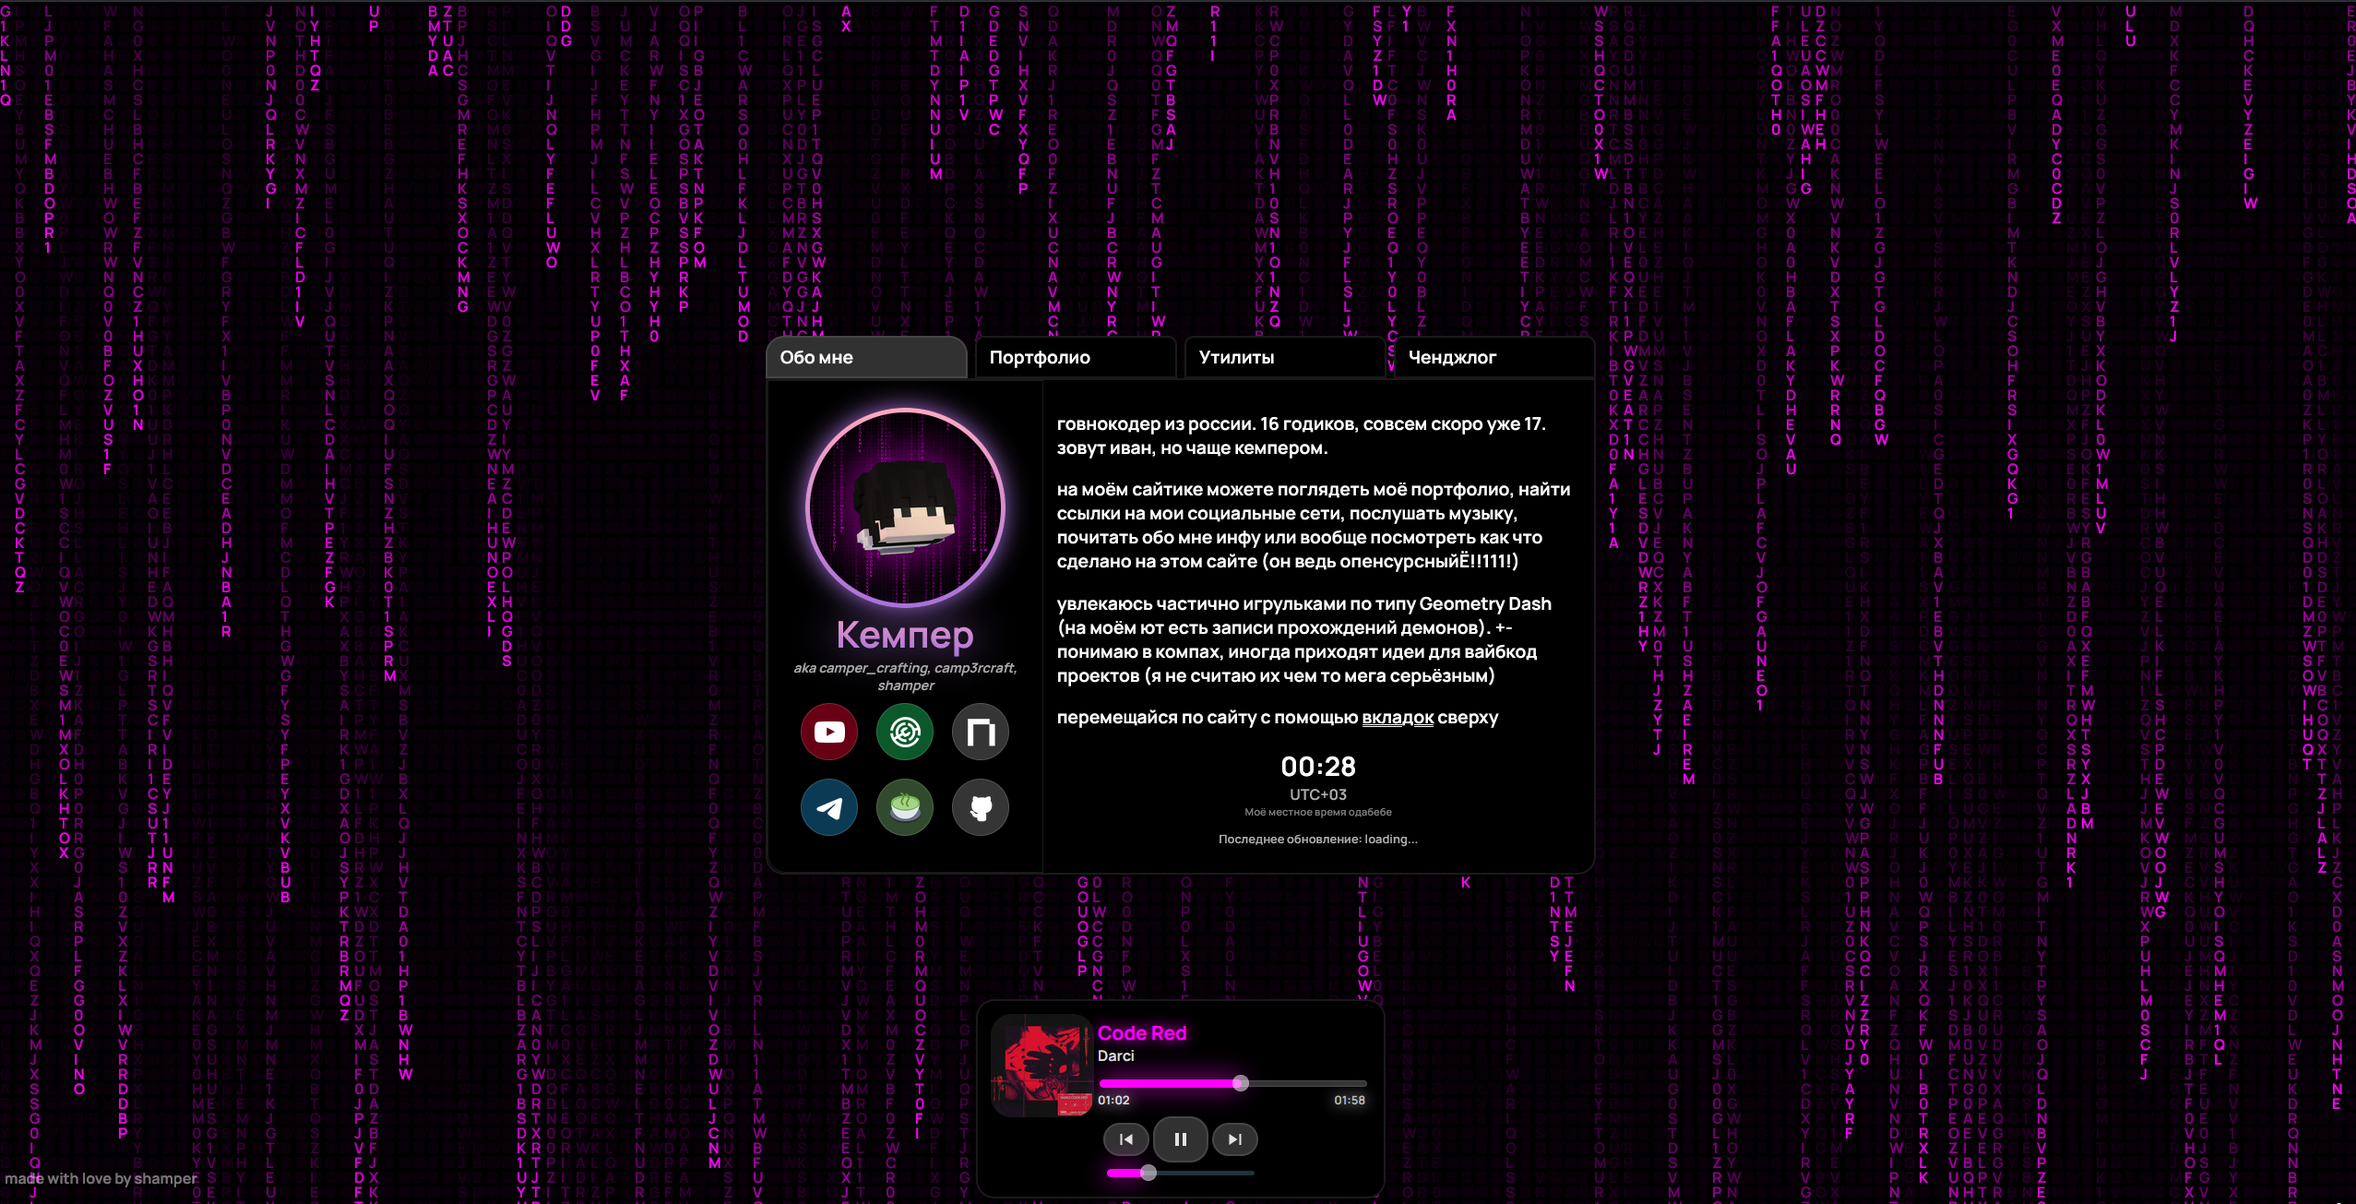
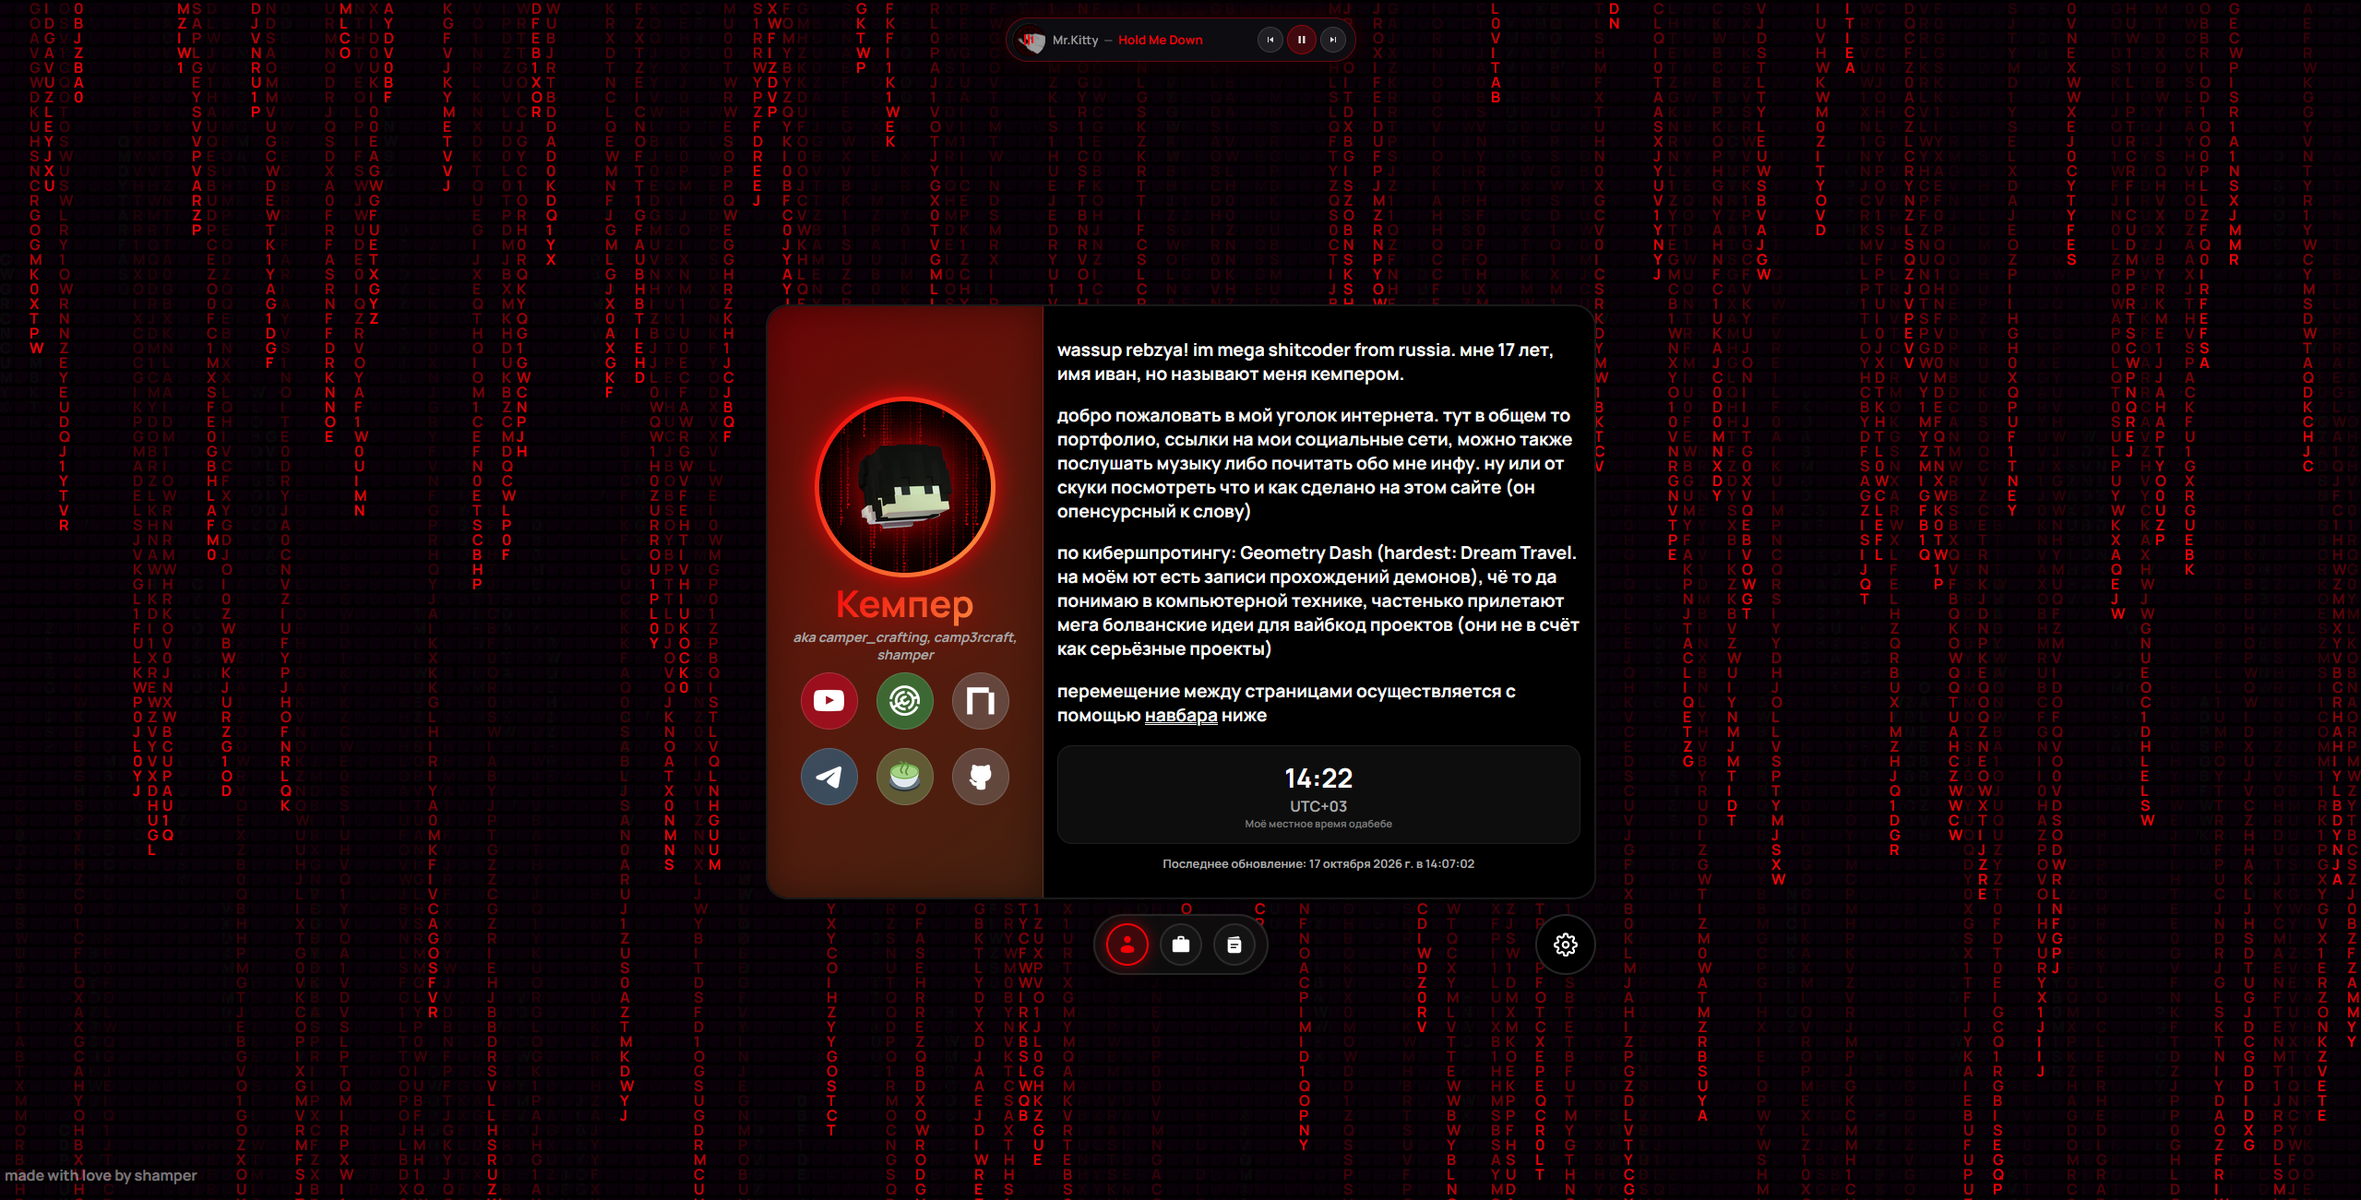
fixed styles and mobile layout

Changed region(s): [[0.0, 0.0, 1.0, 1.0], [0.9898, 0.0, 1.0, 0.1845], [0.1547, 0.5227, 0.1856, 0.6149]]

diff --git a/index.html b/index.html
@@ -2,7 +2,10 @@
     <head>
         <meta charset="UTF-8">
         <meta name="viewport" content="width=device-width, initial-scale=1.0">
-        <link rel="stylesheet" href="style.css">
+        <meta http-equiv="Cache-Control" content="no-cache, no-store, must-revalidate">
+        <meta http-equiv="Pragma" content="no-cache">
+        <meta http-equiv="Expires" content="0">
+        <link rel="stylesheet" href="style.css?v=2.2.2">
         <title>shamper</title>
 
         <link rel="preconnect" href="https://fonts.googleapis.com">
@@ -44,38 +47,40 @@
     <div class="app">
         <div class="window" id="window"></div>
 
-        <nav class="side-navbar navbar" id="navbar" aria-label="Навигация">
-            <div class="nav-capsule">
-                <div class="tab nav-item" data-tab="about">
-                    <svg class="tab-icon nav-icon" viewBox="0 0 24 24" fill="none">
-                        <circle cx="12" cy="6" r="4" fill="currentColor"/>
-                        <path d="M20 17.5C20 19.9853 20 22 12 22C4 22 4 19.9853 4 17.5C4 15.0147 7.58172 13 12 13C16.4183 13 20 15.0147 20 17.5Z" fill="currentColor"/>
-                    </svg>
-                    <span class="nav-tooltip">Обо мне</span>
+        <div class="bottom-bar" id="bottomBar">
+            <nav class="side-navbar navbar" id="navbar" aria-label="Навигация">
+                <div class="nav-capsule">
+                    <div class="tab nav-item" data-tab="about">
+                        <svg class="tab-icon nav-icon" viewBox="0 0 24 24" fill="none">
+                            <circle cx="12" cy="6" r="4" fill="currentColor"/>
+                            <path d="M20 17.5C20 19.9853 20 22 12 22C4 22 4 19.9853 4 17.5C4 15.0147 7.58172 13 12 13C16.4183 13 20 15.0147 20 17.5Z" fill="currentColor"/>
+                        </svg>
+                        <span class="nav-tooltip">Обо мне</span>
+                    </div>
+                    <div class="tab nav-item" data-tab="portfolio">
+                        <svg class="tab-icon nav-icon" viewBox="0 0 24 24" fill="none">
+                            <path d="M20 6h-4V4c0-1.11-.89-2-2-2h-4c-1.11 0-2 .89-2 2v2H4c-1.11 0-1.99.89-1.99 2L2 19c0 1.11.89 2 2 2h16c1.11 0 2-.89 2-2V8c0-1.11-.89-2-2-2zm-6 0h-4V4h4v2z" fill="currentColor"/>
+                        </svg>
+                        <span class="nav-tooltip">Портфолио</span>
+                    </div>
+                    <div class="tab nav-item" data-tab="log">
+                        <svg class="tab-icon nav-icon" viewBox="0 0 24 24" fill="none">
+                            <path fill-rule="evenodd" clip-rule="evenodd" d="M4 5V19C4 20.6569 5.34315 22 7 22H17C18.6569 22 20 20.6569 20 19V9C20 7.34315 18.6569 6 17 6H5C4.44772 6 4 5.55228 4 5ZM7.25 12C7.25 11.5858 7.58579 11.25 8 11.25H16C16.4142 11.25 16.75 11.5858 16.75 12C16.75 12.4142 16.4142 12.75 16 12.75H8C7.58579 12.75 7.25 12.4142 7.25 12ZM7.25 15.5C7.25 15.0858 7.58579 14.75 8 14.75H13.5C13.9142 14.75 14.25 15.0858 14.25 15.5C14.25 15.9142 13.9142 16.25 13.5 16.25H8C7.58579 16.25 7.25 15.9142 7.25 15.5Z" fill="currentColor"/>
+                            <path d="M4.40879 4.0871C4.75727 4.24338 5 4.59334 5 5H17C17.3453 5 17.6804 5.04375 18 5.12602V4.30604C18 3.08894 16.922 2.15402 15.7172 2.32614L4.91959 3.86865C4.72712 3.89615 4.55271 3.97374 4.40879 4.0871Z" fill="currentColor"/>
+                        </svg>
+                        <span class="nav-tooltip">Ченджлог</span>
+                    </div>
                 </div>
-                <div class="tab nav-item" data-tab="portfolio">
-                    <svg class="tab-icon nav-icon" viewBox="0 0 24 24" fill="none">
-                        <path d="M20 6h-4V4c0-1.11-.89-2-2-2h-4c-1.11 0-2 .89-2 2v2H4c-1.11 0-1.99.89-1.99 2L2 19c0 1.11.89 2 2 2h16c1.11 0 2-.89 2-2V8c0-1.11-.89-2-2-2zm-6 0h-4V4h4v2z" fill="currentColor"/>
-                    </svg>
-                    <span class="nav-tooltip">Портфолио</span>
-                </div>
-                <div class="tab nav-item" data-tab="log">
-                    <svg class="tab-icon nav-icon" viewBox="0 0 24 24" fill="none">
-                        <path fill-rule="evenodd" clip-rule="evenodd" d="M4 5V19C4 20.6569 5.34315 22 7 22H17C18.6569 22 20 20.6569 20 19V9C20 7.34315 18.6569 6 17 6H5C4.44772 6 4 5.55228 4 5ZM7.25 12C7.25 11.5858 7.58579 11.25 8 11.25H16C16.4142 11.25 16.75 11.5858 16.75 12C16.75 12.4142 16.4142 12.75 16 12.75H8C7.58579 12.75 7.25 12.4142 7.25 12ZM7.25 15.5C7.25 15.0858 7.58579 14.75 8 14.75H13.5C13.9142 14.75 14.25 15.0858 14.25 15.5C14.25 15.9142 13.9142 16.25 13.5 16.25H8C7.58579 16.25 7.25 15.9142 7.25 15.5Z" fill="currentColor"/>
-                        <path d="M4.40879 4.0871C4.75727 4.24338 5 4.59334 5 5H17C17.3453 5 17.6804 5.04375 18 5.12602V4.30604C18 3.08894 16.922 2.15402 15.7172 2.32614L4.91959 3.86865C4.72712 3.89615 4.55271 3.97374 4.40879 4.0871Z" fill="currentColor"/>
-                    </svg>
-                    <span class="nav-tooltip">Ченджлог</span>
-                </div>
-            </div>
-        </nav>
+            </nav>
 
-        <!-- Кнопка настроек -->
-        <button id="settings-btn" class="settings-floating-btn" aria-label="Настройки" title="Настройки">
-            <svg width="22" height="22" viewBox="0 0 24 24" fill="none" stroke="currentColor" stroke-width="2" stroke-linecap="round" stroke-linejoin="round">
-                <circle cx="12" cy="12" r="3"></circle>
-                <path d="M19.4 15a1.65 1.65 0 0 0 .33 1.82l.06.06a2 2 0 0 1 0 2.83 2 2 0 0 1-2.83 0l-.06-.06a1.65 1.65 0 0 0-1.82-.33 1.65 1.65 0 0 0-1 1.51V21a2 2 0 0 1-2 2 2 2 0 0 1-2-2v-.09A1.65 1.65 0 0 0 9 19.4a1.65 1.65 0 0 0-1.82.33l-.06.06a2 2 0 0 1-2.83 0 2 2 0 0 1 0-2.83l.06-.06a1.65 1.65 0 0 0 .33-1.82 1.65 1.65 0 0 0-1.51-1H3a2 2 0 0 1-2-2 2 2 0 0 1 2-2h.09A1.65 1.65 0 0 0 4.6 9a1.65 1.65 0 0 0-.33-1.82l-.06-.06a2 2 0 0 1 0-2.83 2 2 0 0 1 2.83 0l.06.06a1.65 1.65 0 0 0 1.82.33H9a1.65 1.65 0 0 0 1-1.51V3a2 2 0 0 1 2-2 2 2 0 0 1 2 2v.09a1.65 1.65 0 0 0 1 1.51 1.65 1.65 0 0 0 1.82-.33l.06-.06a2 2 0 0 1 2.83 0 2 2 0 0 1 0 2.83l-.06.06a1.65 1.65 0 0 0-.33 1.82V9a1.65 1.65 0 0 0 1.51 1H21a2 2 0 0 1 2 2 2 2 0 0 1-2 2h-.09a1.65 1.65 0 0 0-1.51 1z"></path>
-            </svg>
-        </button>
+            <!-- Кнопка настроек -->
+            <button id="settings-btn" class="settings-floating-btn" aria-label="Настройки" title="Настройки">
+                <svg width="22" height="22" viewBox="0 0 24 24" fill="none" stroke="currentColor" stroke-width="2" stroke-linecap="round" stroke-linejoin="round">
+                    <circle cx="12" cy="12" r="3"></circle>
+                    <path d="M19.4 15a1.65 1.65 0 0 0 .33 1.82l.06.06a2 2 0 0 1 0 2.83 2 2 0 0 1-2.83 0l-.06-.06a1.65 1.65 0 0 0-1.82-.33 1.65 1.65 0 0 0-1 1.51V21a2 2 0 0 1-2 2 2 2 0 0 1-2-2v-.09A1.65 1.65 0 0 0 9 19.4a1.65 1.65 0 0 0-1.82.33l-.06.06a2 2 0 0 1-2.83 0 2 2 0 0 1 0-2.83l.06-.06a1.65 1.65 0 0 0 .33-1.82 1.65 1.65 0 0 0-1.51-1H3a2 2 0 0 1-2-2 2 2 0 0 1 2-2h.09A1.65 1.65 0 0 0 4.6 9a1.65 1.65 0 0 0-.33-1.82l-.06-.06a2 2 0 0 1 0-2.83 2 2 0 0 1 2.83 0l.06.06a1.65 1.65 0 0 0 1.82.33H9a1.65 1.65 0 0 0 1-1.51V3a2 2 0 0 1 2-2 2 2 0 0 1 2 2v.09a1.65 1.65 0 0 0 1 1.51 1.65 1.65 0 0 0 1.82-.33l.06-.06a2 2 0 0 1 2.83 0 2 2 0 0 1 0 2.83l-.06.06a1.65 1.65 0 0 0-.33 1.82V9a1.65 1.65 0 0 0 1.51 1H21a2 2 0 0 1 2 2 2 2 0 0 1-2 2h-.09a1.65 1.65 0 0 0-1.51 1z"></path>
+                </svg>
+            </button>
+        </div>
     </div>
     
 
@@ -174,21 +179,21 @@
     <p class="made-with-love" data-text="made with love by shamper">made with love by shamper</p>
 
     </body>
-    <script src="js/cursor.js"></script>
+    <script src="js/cursor.js?v=2.2.2"></script>
     <script src="js/js-yaml.min.js"></script>
-    <script src="js/settings.js"></script>
-    <script src="js/audioplayer.js"></script>
-    <script src="js/dash.js"></script>
-    <script src="js/last-update.js" defer></script>
-    <script src="js/page_renderer.js"></script>
-    <script src="js/matrix.js"></script>
-    <script src="js/clock.js" defer></script>
-    <script src="js/projects.js"></script>
+    <script src="js/settings.js?v=2.2.2"></script>
+    <script src="js/audioplayer.js?v=2.2.2"></script>
+    <script src="js/dash.js?v=2.2.2"></script>
+    <script src="js/last-update.js?v=2.2.2" defer></script>
+    <script src="js/page_renderer.js?v=2.2.2"></script>
+    <script src="js/matrix.js?v=2.2.2"></script>
+    <script src="js/clock.js?v=2.2.2" defer></script>
+    <script src="js/projects.js?v=2.2.2"></script>
     <script src="js/qrcode.min.js"></script>
-    <script src="js/utils.js"></script>
-    <script src="js/modal.js"></script>
-    <script src="js/portfolio.js"></script>
-    <script src="js/navigation.js"></script>
+    <script src="js/utils.js?v=2.2.2"></script>
+    <script src="js/modal.js?v=2.2.2"></script>
+    <script src="js/portfolio.js?v=2.2.2"></script>
+    <script src="js/navigation.js?v=2.2.2"></script>
     <script>
         document.getElementById('settings-btn')?.addEventListener('click', () => {
             if (typeof openSettingsModal === 'function') {

diff --git a/style.css b/style.css
@@ -315,12 +315,29 @@ select {
    BUBBLEMC CAPSULE NAVBAR (DESKTOP)
    ============================================ */
 
-.navbar,
-.side-navbar {
+.bottom-bar {
     position: absolute;
     top: calc(100% + 16px);
-    left: 50%;
-    transform: translateX(-50%);
+    left: 0;
+    width: 100%;
+    height: 66px;
+    display: flex;
+    align-items: center;
+    justify-content: center;
+    pointer-events: none;
+    z-index: 50;
+}
+
+.bottom-bar > * {
+    pointer-events: auto;
+}
+
+.navbar,
+.side-navbar {
+    position: relative;
+    top: auto;
+    left: auto;
+    transform: none;
     display: flex;
     align-items: center;
     justify-content: center;
@@ -4489,7 +4506,7 @@ body.purple-gradient-bg #matrix {
 
 .settings-floating-btn {
     position: absolute;
-    top: calc(100% + 16px);
+    top: 0;
     right: 0;
     z-index: 50;
     width: 66px;
@@ -4725,39 +4742,32 @@ input:checked+.slider-toggle:before {
         background: black;
     }
 
-    /* App Container */
-    .app {
-        width: 100% !important;
-        max-width: 520px;
-        position: relative !important;
-        top: auto !important;
-        left: auto !important;
-        transform: none !important;
-        padding: calc(76px + env(safe-area-inset-top, 0px)) 14px calc(100px + env(safe-area-inset-bottom, 0px)) 14px !important;
-        box-sizing: border-box;
-        min-height: 100vh;
-        display: flex;
-        flex-direction: column;
+    /* 1. TOP: AUDIO PLAYER */
+    #audioPlayer {
+        order: 1 !important;
     }
 
-    /* ==========================================
-       TOP CAPSULE AUDIO PLAYER (АУДИОПЛЕЕР СВЕРХУ)
-       ========================================== */
     .player.player-capsule {
-        top: calc(12px + env(safe-area-inset-top, 0px)) !important;
-        left: 50% !important;
-        transform: translateX(-50%) !important;
         width: calc(100% - 24px) !important;
-        max-width: 380px !important;
+        max-width: 440px !important;
         z-index: 10005 !important;
     }
 
     .player.player-capsule:not(.expanded) {
+        position: relative !important;
+        top: auto !important;
+        left: auto !important;
+        transform: none !important;
+        margin: calc(12px + env(safe-area-inset-top, 0px)) auto 12px auto !important;
         height: 48px !important;
         border-radius: 24px !important;
     }
 
     .player.player-capsule.expanded {
+        position: fixed !important;
+        top: calc(12px + env(safe-area-inset-top, 0px)) !important;
+        left: 50% !important;
+        transform: translateX(-50%) !important;
         height: 235px !important;
         border-radius: 18px !important;
     }
@@ -4803,43 +4813,78 @@ input:checked+.slider-toggle:before {
         height: 40px !important;
     }
 
-    /* Floating Settings Button */
-    .settings-floating-btn {
-        position: fixed !important;
-        bottom: calc(14px + env(safe-area-inset-bottom, 0px)) !important;
-        right: 16px !important;
+    /* 2. MIDDLE: APP & CONTENT WINDOW */
+    .app {
+        order: 2 !important;
+        width: 100% !important;
+        max-width: 520px;
+        position: relative !important;
         top: auto !important;
         left: auto !important;
         transform: none !important;
-        width: 66px !important;
-        height: 66px !important;
-        border-radius: 50% !important;
-        z-index: 10001 !important;
-        background: #141414 !important;
-        border: 2px solid rgba(255, 255, 255, 0.15) !important;
-        box-shadow: 0 4px 16px rgba(0, 0, 0, 0.7) !important;
+        padding: 0 14px calc(24px + env(safe-area-inset-bottom, 0px)) 14px !important;
+        box-sizing: border-box;
+        min-height: auto !important;
+        display: flex;
+        flex-direction: column;
+        align-items: center !important;
     }
 
     .settings-card {
         padding: 14px 16px !important;
     }
 
-    /* ==========================================
-       BUBBLEMC CAPSULE NAVBAR ON MOBILE (FIXED BOTTOM)
-       ========================================== */
+    /* 3. BOTTOM: BOTTOM-BAR (NAVBAR & SETTINGS STRICTLY BELOW WINDOW) */
+    .bottom-bar {
+        position: relative !important;
+        top: auto !important;
+        left: auto !important;
+        right: auto !important;
+        bottom: auto !important;
+        width: 100% !important;
+        height: auto !important;
+        display: flex !important;
+        flex-direction: row !important;
+        align-items: center !important;
+        justify-content: center !important;
+        gap: 12px !important;
+        margin-top: 16px !important;
+        margin-bottom: calc(16px + env(safe-area-inset-bottom, 0px)) !important;
+        pointer-events: auto !important;
+        z-index: 50 !important;
+    }
+
     .navbar,
     .side-navbar {
-        position: fixed !important;
-        left: 50% !important;
+        position: relative !important;
+        left: auto !important;
         top: auto !important;
-        bottom: calc(14px + env(safe-area-inset-bottom, 0px)) !important;
-        transform: translateX(-50%) !important;
+        bottom: auto !important;
+        transform: none !important;
         width: auto !important;
-        z-index: 1000 !important;
+        z-index: 1 !important;
         margin: 0 !important;
         display: flex !important;
         align-items: center !important;
         justify-content: center !important;
+    }
+
+    .settings-floating-btn {
+        position: relative !important;
+        bottom: auto !important;
+        right: auto !important;
+        top: auto !important;
+        left: auto !important;
+        transform: none !important;
+        width: 62px !important;
+        height: 62px !important;
+        border-radius: 50% !important;
+        z-index: 1 !important;
+        background: #141414 !important;
+        border: 2px solid rgba(255, 255, 255, 0.15) !important;
+        box-shadow: 0 4px 16px rgba(0, 0, 0, 0.7) !important;
+        flex-shrink: 0 !important;
+        margin: 0 !important;
     }
 
     .nav-capsule {
@@ -4898,6 +4943,9 @@ input:checked+.slider-toggle:before {
         border: 2px solid rgba(255, 255, 255, 0.1) !important;
         margin: 0 !important;
         box-sizing: border-box !important;
+        max-height: none !important;
+        height: auto !important;
+        overflow: visible !important;
     }
 
     /* About Section */

diff --git a/js/utils.js b/js/utils.js
@@ -9,7 +9,7 @@ async function loadUtils() {
     const results = await Promise.all(
         files.map(async (f) => {
             try {
-                const res = await fetch("data/utils/" + f);
+                const res = await fetch("data/utils/" + f, { cache: "no-cache" });
                 const text = await res.text();
                 return jsyaml.load(text);
             } catch (err) {

diff --git a/js/projects.js b/js/projects.js
@@ -5,7 +5,7 @@ async function loadProjects() {
 
     const results = await Promise.all(
         files.map(async (f) => {
-            const res = await fetch("data/projects/" + f);
+            const res = await fetch("data/projects/" + f, { cache: "no-cache" });
             const text = await res.text();
             return jsyaml.load(text);
         })

diff --git a/js/navigation.js b/js/navigation.js
@@ -38,6 +38,10 @@ let renderTimer = null;
 
 function animateWindowHeight() {
     if (!windowEl) return;
+    if (window.innerWidth <= 768) {
+        windowEl.style.height = "auto";
+        return;
+    }
     const startHeight = windowEl.offsetHeight;
     if (startHeight === 0) return;
 
